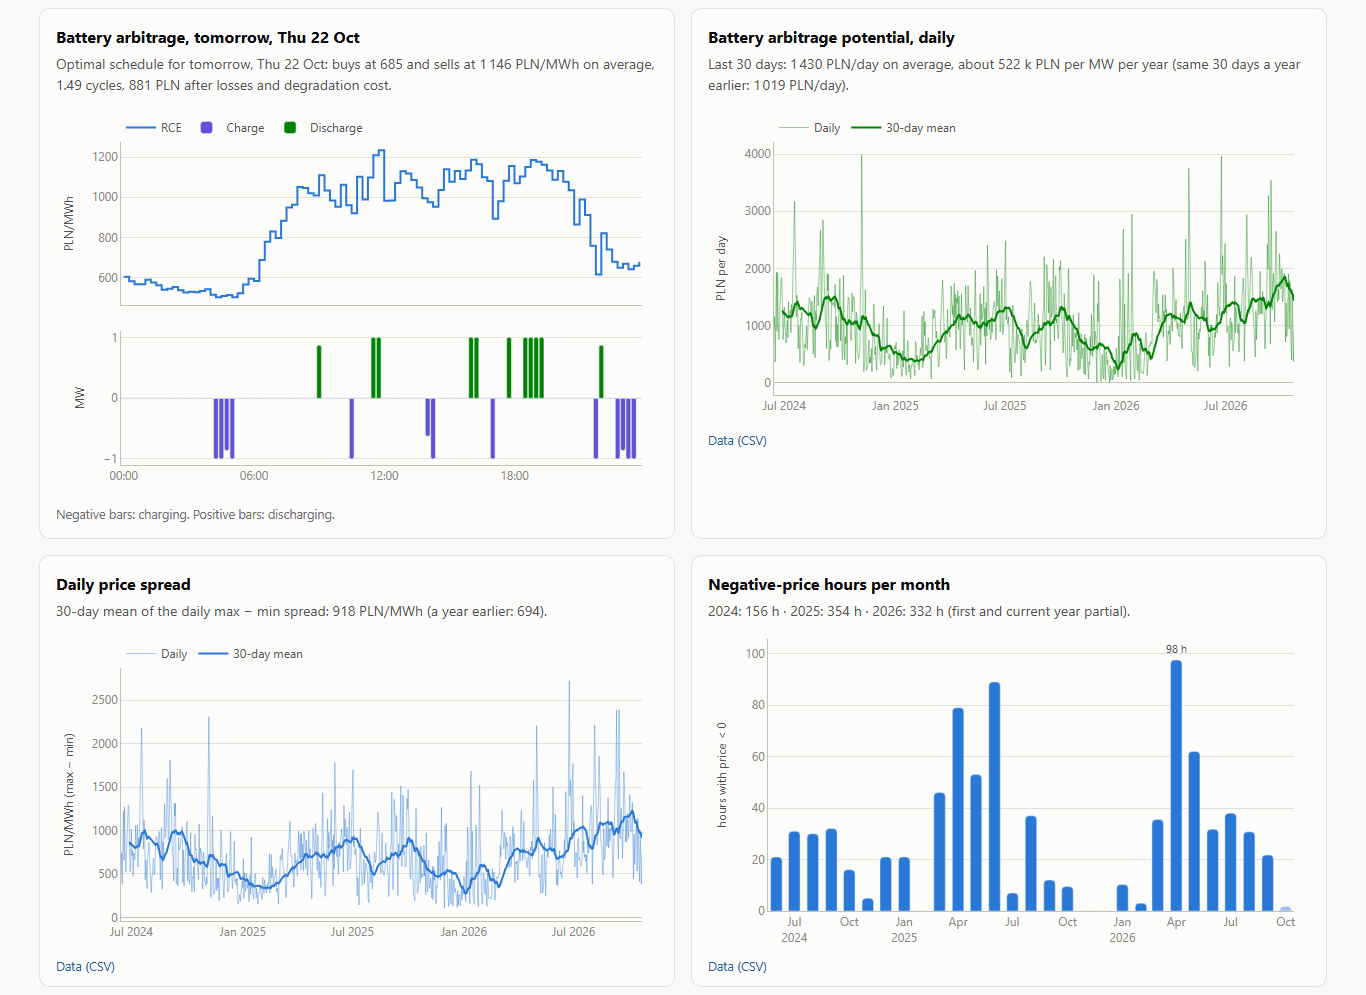
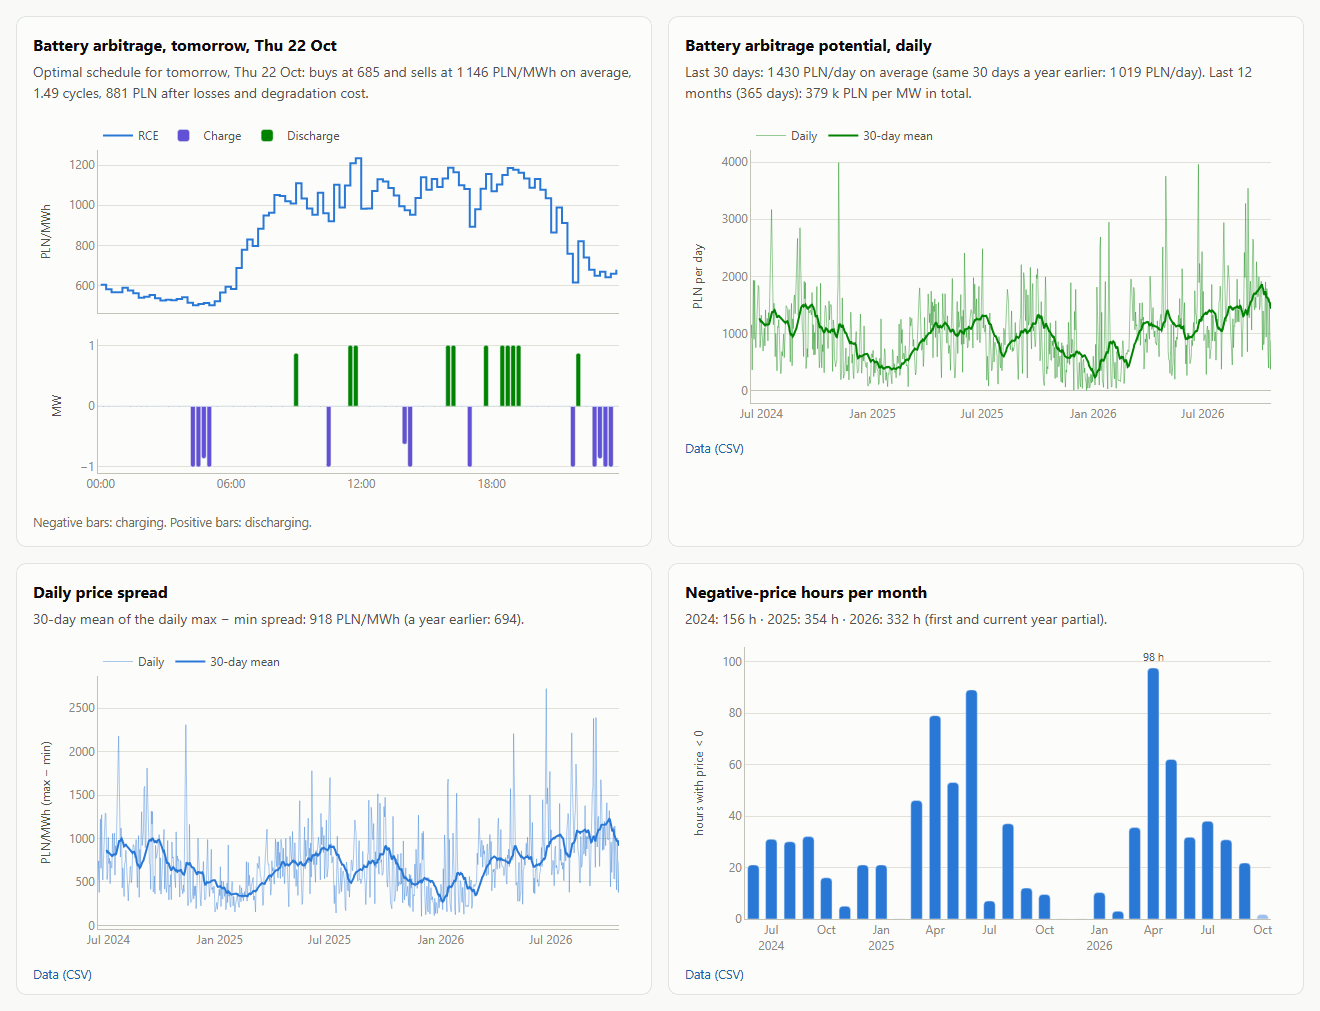
Battery panel: last 12 months instead of 30 days x 365; PSE re-use terms
The battery panel turned the mean of the last 30 days into "about 522 k PLN per
MW per year". Spreads are seasonal and the last 30 days were autumn days, so the
panel now reports the sum of the last 365 days (379 k PLN for 23.10.2025 -
22.10.2026) next to the 30-day mean and the same 30 days a year earlier
(1 430 vs 1 019 PLN/day). README snapshot and its battery screenshot redrawn
from a build of the same day.

The method text no longer says day-ahead prices are known when bidding: bids go
in before the auction, so the figure is an upper bound; it links the forecast
backtest of pl-bess-paper-trading (about 83 % of the bound).

Licence paragraph replaced by the PSE BIP conditions for re-using public sector
information (checked 31.10.2026), with the attribution the conditions ask for
in the README and in the page footer, dated by each build.

diff --git a/src/pl_power_market/template.html b/src/pl_power_market/template.html
@@ -140,9 +140,11 @@ $cards
       <h3>Battery model</h3>
       <p>$battery. Each delivery day is solved as a mixed-integer linear program (HiGHS) that chooses when to charge
         and discharge with perfect knowledge of that day's prices, using the optimiser of the companion project
-        <a href="https://github.com/kwwaleszczynski-del/bess-arbitrage-pl">bess-arbitrage-pl</a>. Day-ahead prices
-        are known before delivery, so this is the upper bound of pure day-ahead arbitrage: no balancing services,
-        intraday trading, grid fees or bidding risk.</p>
+        <a href="https://github.com/kwwaleszczynski-del/bess-arbitrage-pl">bess-arbitrage-pl</a>. Day-ahead bids
+        are submitted before the auction and the price is its result, so no operator knows these prices when bidding:
+        this is the upper bound of pure day-ahead arbitrage, without bidding risk, balancing services, intraday
+        trading or grid fees. With a forecast made before the gate a backtest earns about 83 % of it
+        (<a href="https://github.com/kwwaleszczynski-del/pl-bess-paper-trading">pl-bess-paper-trading</a>).</p>
       <h3>Refresh and resilience</h3>
       <p>A scheduled GitHub Actions workflow rebuilds the page every afternoon after PSE publishes next-day prices.
         Data are cached as monthly Parquet files; recent months are downloaded again on every run to pick up late
@@ -160,7 +162,9 @@ $status_rows
 </section>
 
 <footer class="site">
-  Data: PSE S.A., public reports (raporty.pse.pl). Analysis and code: Konrad Waleszczyński, MIT licence.
+  Information obtained from www.pse.pl (PSE S.A. reports rce-pln, csdac-pln, his-wlk-cal, pdgopkd, crb-rozl), state
+  as of $updated; processed into daily, monthly and hourly statistics and a battery model, not an official PSE
+  publication. Analysis and code: Konrad Waleszczyński, MIT licence.
   Figures are estimates for illustration and not investment advice.
 </footer>
 </div>

diff --git a/src/pl_power_market/page.py b/src/pl_power_market/page.py
@@ -173,8 +173,11 @@ class Dashboard:
         a = self.arb
         last30 = a["revenue_pln"].iloc[-30:]
         prev_year = a.loc[(a.index > a.index[-1] - pd.Timedelta(days=395)) & (a.index <= a.index[-1] - pd.Timedelta(days=365)), "revenue_pln"]
-        sub = (f"Last 30 days: {_fmt(last30.mean())} PLN/day on average, about {_fmt(last30.mean() * 365 / 1000)} k PLN per MW "
-               f"per year" + (f" (same 30 days a year earlier: {_fmt(prev_year.mean())} PLN/day)." if len(prev_year) else "."))
+        # the sum of the last 365 days, not 30 days times 365: spreads are seasonal
+        last12 = a.loc[a.index > a.index[-1] - pd.Timedelta(days=365), "revenue_pln"]
+        sub = (f"Last 30 days: {_fmt(last30.mean())} PLN/day on average"
+               + (f" (same 30 days a year earlier: {_fmt(prev_year.mean())} PLN/day)" if len(prev_year) else "")
+               + f". Last 12 months ({len(last12)} days): {_fmt(last12.sum() / 1000)} k PLN per MW in total.")
         return Panel("", "", sub, figures.bess_history(a), "", "daily.csv")
 
     def p_spreads(self) -> Panel:

diff --git a/README.md b/README.md
@@ -44,7 +44,9 @@ before delivery).
   about 500 PLN/MWh; above 7 GW it falls to 120-260 PLN/MWh and about one in five quarter-hours clears below zero.
 - **Spreads are widening**: the 30-day mean of the daily max − min spread is 918 PLN/MWh, against 694 a year earlier.
 - **Battery arbitrage potential** (1 MW / 2 MWh, perfect foresight, upper bound): 308 k PLN in 2025 and already
-  344 k PLN in 2026 by 22 October; the last 30 days averaged 1 430 PLN per day, about 520 k PLN per MW per year.
+  344 k PLN in 2026 by 22 October, and 379 k PLN in the last 12 months (23 October 2025 - 22 October 2026). The last
+  30 days averaged 1 430 PLN per day, against 1 019 PLN in the same 30 days a year earlier; autumn spreads are wide,
+  so a month does not scale to a year.
 - **Imbalance prices are far more volatile than day-ahead prices**: over the last settled week CEN deviated from RCE
   by 267 PLN/MWh on average, with quarter-hours from -2489 to 3670 PLN/MWh.
 
@@ -109,9 +111,22 @@ change).
 RCE and SDAC are close but not identical; the history panels and the battery model use RCE (selectable with
 `--price-series sdac`).
 
-**Licence and attribution.** Data: PSE S.A., public reports at raporty.pse.pl. PSE does not publish an explicit
-open-data licence for this API; this repository contains no PSE data, and the dashboard republishes derived statistics
-with attribution. Check PSE's terms before any commercial reuse.
+**Terms of use.** PSE publishes conditions for re-using public sector information
+([www.pse.pl, BIP, "Ponowne wykorzystywanie informacji sektora publicznego"](https://www.pse.pl/bip/ponowne-wykorzystanie-informacji-publicznej),
+entry changed on 14 October 2026, checked on 31 October 2026). They allow commercial and non-commercial re-use of
+information published on www.pse.pl free of charge, on condition that the user names the source and the date the
+information was obtained, removes the PSE logo, and, when the information has been processed, tells recipients that
+it was changed and how, without misleading them. PSE accepts no liability for processed information and notes that
+some materials may be protected by copyright or database rights. These conditions are written for www.pse.pl; this
+project applies them to the reports API of the same operator. The page footer carries the attribution with the date
+of each build:
+
+> Information obtained from www.pse.pl (PSE S.A. reports `rce-pln`, `csdac-pln`, `his-wlk-cal`, `pdgopkd`,
+> `crb-rozl`), state as of the build time shown on the page. The information has been processed: aggregated to daily,
+> monthly and hourly statistics, combined across reports and used in a battery model. It is not an official PSE
+> publication.
+
+The repository contains no PSE data; the page and its CSV files publish derived statistics.
 
 ## Method notes
 
@@ -129,8 +144,11 @@ with attribution. Check PSE's terms before any commercial reuse.
 
 ## Limitations
 
-- **The battery figure is an upper bound** for pure day-ahead arbitrage: no bidding risk, balancing services, intraday
-  trading, capacity market, grid fees or taxes. See bess-arbitrage-pl for sensitivity to efficiency and cycle limits.
+- **The battery figure is an upper bound** for pure day-ahead arbitrage: bids go in before the auction, so no operator
+  knows these prices when bidding; no balancing services, intraday trading, capacity market, grid fees or taxes. See
+  [bess-arbitrage-pl](https://github.com/kwwaleszczynski-del/bess-arbitrage-pl) for sensitivity to efficiency and cycle
+  limits and [pl-bess-paper-trading](https://github.com/kwwaleszczynski-del/pl-bess-paper-trading) for what a forecast
+  made before the gate earns (about 83 % of the upper bound in its backtest).
 - **Correlation, not causation**: the PV panel shows how prices behave at different PV levels; demand, wind,
   season and cross-border flows move at the same time.
 - **Revisions**: PSE corrects settlement data (notably CEN) weeks or months later. Months older than the revision
